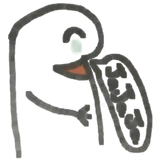
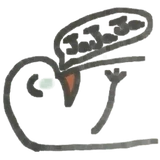
fix(games): room stickers stay in the game card while scrolling on phones; laugh sticker turned left

diff --git a/games/src/app/core/features.ts b/games/src/app/core/features.ts
@@ -82,7 +82,7 @@ export const FEATURES: readonly FeatureInfo[] = [
   /** How many? says the numbers out loud with the browser's voice, which lags in some languages */
   { id: 'how-many-sound', openByDefault: false },
   /** Hand-drawn stickers players send each other in a room, with the side they stick to in the settings */
-  { id: 'room-reactions', openByDefault: false },
+  { id: 'room-reactions', openByDefault: true },
   /**
    * Signed-in players' screen names in rooms, once a moderator approves them: the host turns them on per room, and any
    * player can hide and report a name

diff --git a/games/src/app/pages/rooms/rooms.scss b/games/src/app/pages/rooms/rooms.scss
@@ -142,8 +142,14 @@
     z-index: 4;
   }
 
-  // Phones and tablets: the stickers sit inside the game card's edge, so the card keeps room for them there
+  // Phones and tablets: the stickers sit inside the game card's edge, so the card keeps room for them there. The card
+  // takes its cell explicitly, like the stickers do: otherwise the grid would move it to the next row, below them
   @media (max-width: 55.99rem) {
+    > .card.board {
+      grid-column: 1;
+      grid-row: 2;
+    }
+
     &:has(app-room-reactions:not(.is-left)) > .card.board {
       padding-right: 3.5rem;
     }
